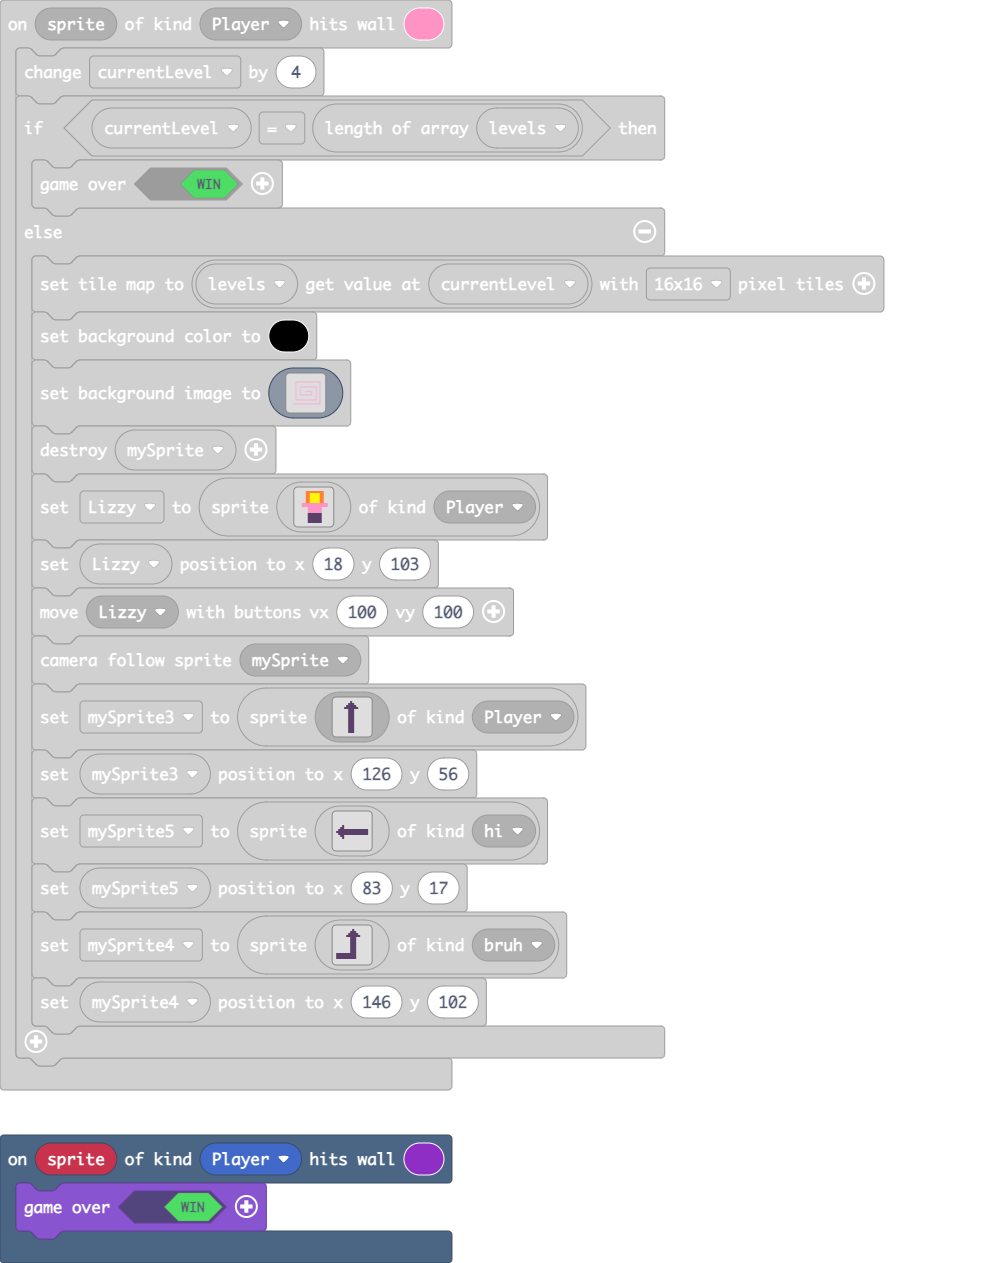
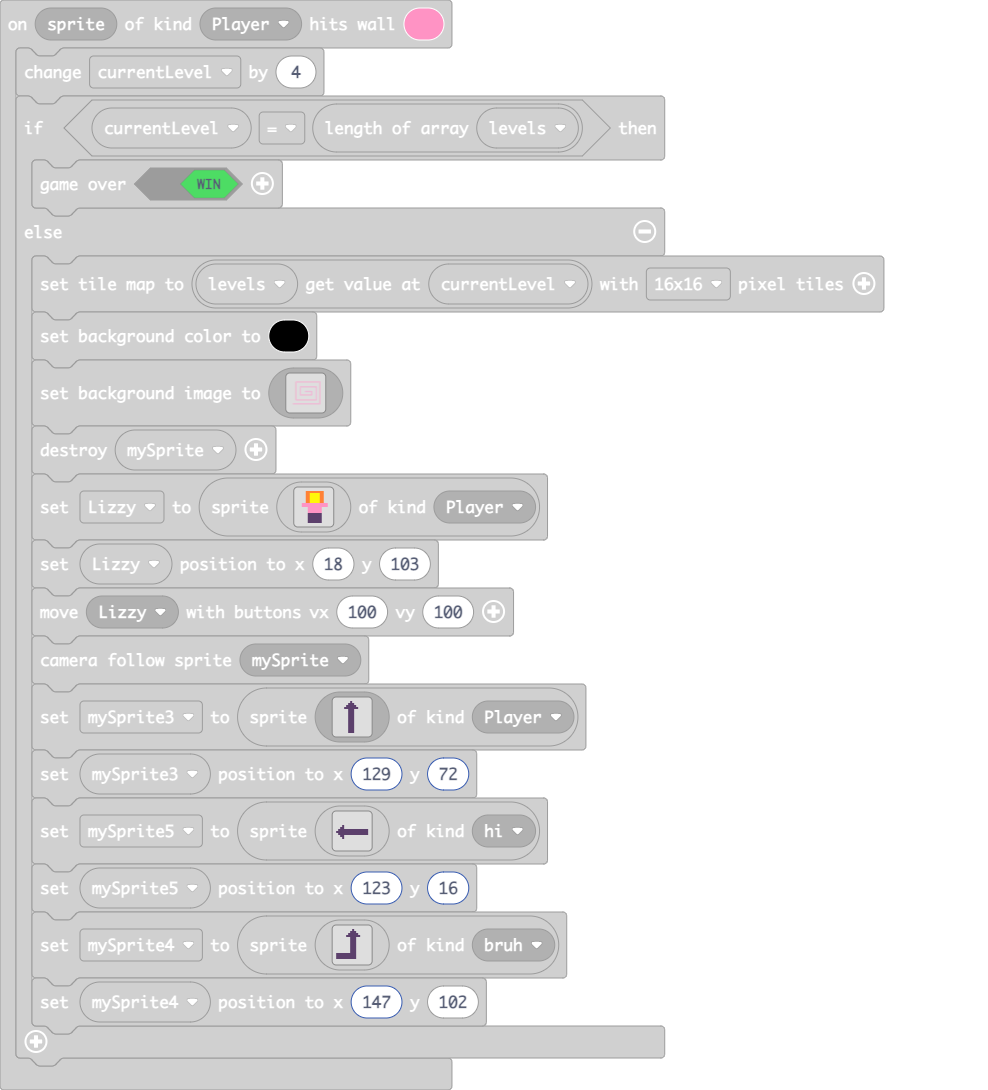
Update main.blocks, main.ts

Changed region(s): [[0.0, 0.0, 0.9109, 1.0]]

diff --git a/main.ts b/main.ts
@@ -823,7 +823,7 @@ scene.onHitTile(SpriteKind.Player, 3, function (sprite) {
             . . . . . . c c c . . . . . . . 
             . . . . . . c c c . . . . . . . 
             `, SpriteKind.Player)
-        mySprite3.setPosition(126, 56)
+        mySprite3.setPosition(129, 72)
         mySprite5 = sprites.create(img`
             . . . . . . . . . . . . . . . . 
             . . . . . . . . . . . . . . . . 
@@ -842,7 +842,7 @@ scene.onHitTile(SpriteKind.Player, 3, function (sprite) {
             . . . . . . . . . . . . . . . . 
             . . . . . . . . . . . . . . . . 
             `, SpriteKind.hi)
-        mySprite5.setPosition(83, 17)
+        mySprite5.setPosition(123, 16)
         mySprite4 = sprites.create(img`
             . . . . . . . . c . . . . . . . 
             . . . . . . . c c c . . . . . . 
@@ -861,7 +861,7 @@ scene.onHitTile(SpriteKind.Player, 3, function (sprite) {
             c c c c c c c c c c . . . . . . 
             . . . . . . . . . . . . . . . . 
             `, SpriteKind.bruh)
-        mySprite4.setPosition(146, 102)
+        mySprite4.setPosition(147, 102)
     }
 })
 scene.onHitTile(SpriteKind.Player, 15, function (sprite) {
